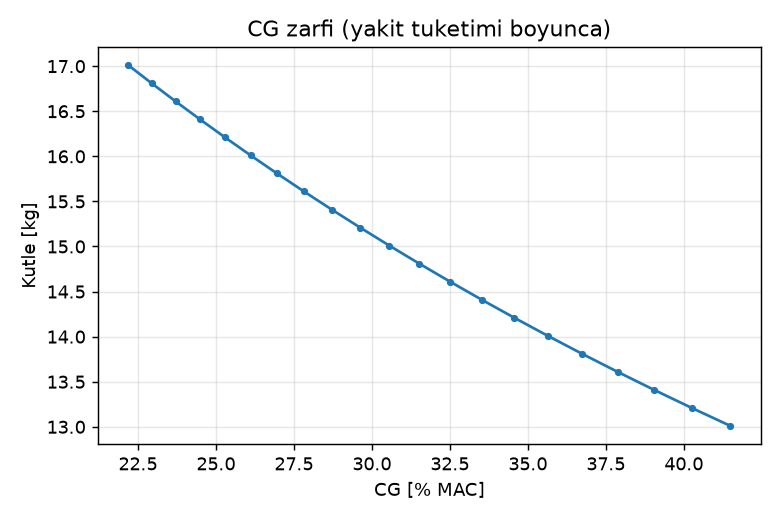
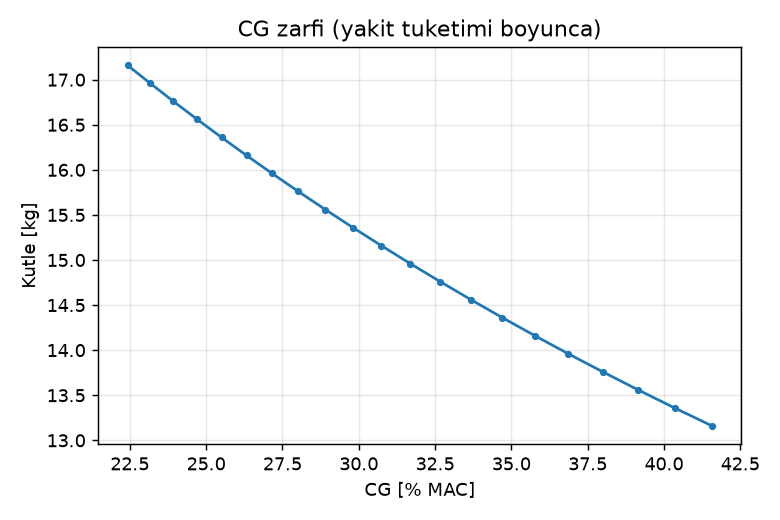
Alik basinc kazanimi analizi ve performans ciktilari

diff --git a/performance/inlet_analysis.py b/performance/inlet_analysis.py
@@ -1,0 +1,149 @@
+"""
+HIZ-750 - hava alik / S-kanal toplam basinc kazanimi (pressure recovery) ve itki etkisi.
+
+Calistir: python performance/inlet_analysis.py  ->  performance/out/alik_*.png, alik_ozet.txt
+
+Yontem (yari-ampirik, CFD yerine):
+  1. Govde sinir tabakasi (turbulans, 1/7 ust profil), dudak onundeki 7 derece rampa ile kalinlasma
+  2. Yari gomulu dudagin yuttugu sinir tabaka -> kutle-agirlikli toplam basinc kaybi
+  3. Ic kayiplar: dudak (MFR'ye bagli), surtunme (f L/Dh), S-bukum (K_s, ofset/uzunluk'a bagli),
+     difuzor (verim eta_d) - hepsi dudak ici dinamik basinc ile olceklenir
+  4. Itki etkisi: model turbojette sabit RPM'de kutle debisi ~ pt2, itki ~ pt2 kabulu
+     -> sizing.py'deki k_ram esdegeri
+Girdi: params.py (INLET, ENGINE), cad/out/cad_report.json (varsa kanal geometrisi).
+"""
+import json
+import math
+import os
+import sys
+
+import numpy as np
+import matplotlib
+matplotlib.use("Agg")
+import matplotlib.pyplot as plt
+
+ROOT = os.path.dirname(os.path.dirname(os.path.abspath(__file__)))
+sys.path.insert(0, ROOT)
+import params as P   # noqa: E402
+import sizing as SZ  # noqa: E402
+
+OUT = os.path.join(ROOT, "performance", "out")
+GAM = 1.4
+
+I = P.INLET
+A_CAP = I["width"] * I["height"]
+A_FACE = 125e-4                       # CAD: motor yuzundeki kanal kesiti [m2]
+L_DUCT = I["duct_length"]
+OFFSET = 0.088                         # CAD: dudak merkezi - motor ekseni dikey ofseti [m]
+R_FUS = P.FUSELAGE["d_max"] / 2
+BURY = R_FUS - (I["lip_z_center"] - I["height"] / 2)   # dudak alt kenarinin govde yuzeyinin altinda kalan kismi [m]
+RAMP_THICKENING = 1.5                  # 7 deg rampada sinir tabaka kalinlasmasi (ampirik, NACA gomulu alik verisi araligi 1.3-1.8)
+
+
+def pt_over_p(M):
+    return (1 + (GAM - 1) / 2 * M * M) ** (GAM / (GAM - 1))
+
+
+def boundary_layer(V, x, nu):
+    Re = V * x / nu
+    return 0.37 * x / Re ** 0.2
+
+
+def ingested_recovery(Minf, delta, h_cap, bury):
+    """Dudak kesitinin alt `bury`+... kismina giren sinir tabakanin kutle-agirlikli pt orani.
+    Dudak alt kenari rampa tabanina (duvar) yakin kabul edilir: kesitte y=0 duvar."""
+    y = np.linspace(1e-5, h_cap, 2000)
+    u = np.where(y < delta, (y / delta) ** (1 / 7), 1.0)
+    # statik basinc sabit, sicaklik Crocco-Busemann ile adyabatik duvar yaklasimi
+    T_ratio = 1 + (GAM - 1) / 2 * Minf ** 2 * (1 - u ** 2)    # T/T_inf
+    M_loc = Minf * u / np.sqrt(T_ratio)
+    rho_ratio = 1 / T_ratio
+    w = rho_ratio * u                                        # kutle akisi agirligi
+    pt_loc = pt_over_p(M_loc) / pt_over_p(Minf)
+    return float(np.trapezoid(w * pt_loc, y) / np.trapezoid(w, y)), float(np.trapezoid(w, y) / h_cap)
+
+
+def internal_losses(MFR, Minf):
+    """Ic kayiplari serbest akim dinamik basincina orani (Delta pt / q_inf) olarak."""
+    q_ratio_lip = MFR ** 2          # dudak ici q / q_inf (sikistirilamaz yaklasim)
+    K_lip = 0.02 if MFR <= 1.0 else 0.02 + 0.25 * (MFR - 1.0) ** 2   # MFR>1: dudak ayrilmasi (kalkis)
+    Dh = 4 * A_CAP / (2 * (I["width"] + I["height"]))
+    f = 0.020
+    AR = A_FACE / A_CAP
+    K_fric = f * L_DUCT / Dh * (1 + 1 / AR ** 2) / 2          # ortalama kesit hizi
+    K_s = 0.06 * (OFFSET / L_DUCT / 0.3) ** 2                  # S-bukum (Wellborn/ESDU tipi veri araligi 0.03-0.08 @ o/L 0.3)
+    eta_d = 0.90
+    K_diff = (1 - eta_d) * (1 - 1 / AR ** 2)
+    K_tot = K_lip + K_fric + K_s + K_diff
+    return K_tot * q_ratio_lip, dict(K_lip=K_lip, K_fric=K_fric, K_s=K_s, K_diff=K_diff, AR=AR, Dh=Dh)
+
+
+def analyse(V):
+    D = SZ.DESIGN
+    rho, a, mu = SZ.isa(D["alt_m"], D["dT"])
+    nu = mu / rho
+    M = V / a
+    delta0 = boundary_layer(V, I["x_lip"], nu)
+    delta = delta0 * RAMP_THICKENING
+    mdot = P.ENGINE["mdot_air"] * (1 + 0.6 * M * M)           # ram ile debi artisi (sizing ile tutarli)
+    MFR = mdot / (rho * V * A_CAP)
+    eta_bl, mass_frac = ingested_recovery(M, delta, I["height"], BURY)
+    dpt_q, k = internal_losses(MFR, M)
+    q = 0.5 * GAM * M * M          # q / p
+    eta_int = 1 - dpt_q * q / pt_over_p(M)
+    eta_r = eta_bl * eta_int
+    ram_ideal = pt_over_p(M)
+    ram_eff = eta_r * ram_ideal
+    k_eff = (ram_eff - 1) / (M * M) if M > 0.05 else float("nan")
+    return dict(V=V, M=M, delta0=delta0, delta=delta, MFR=MFR, eta_bl=eta_bl, eta_int=eta_int,
+                eta_r=eta_r, ram_ideal=ram_ideal, ram_eff=ram_eff, k_ram_eff=k_eff, **k)
+
+
+def main():
+    os.makedirs(OUT, exist_ok=True)
+    rows = [analyse(v / 3.6) for v in (150, 300, 450, 600, 750, 800)]
+    L = []
+    p = L.append
+    p(f"Capture {A_CAP*1e4:.1f} cm2, motor yuzu {A_FACE*1e4:.0f} cm2 (AR {A_FACE/A_CAP:.2f}), "
+      f"kanal {L_DUCT*1000:.0f} mm, ofset/uzunluk {OFFSET/L_DUCT:.3f}, dudak gomulme {BURY*1000:.0f} mm")
+    p(f"{'km/h':>5} {'M':>5} {'d_SL mm':>8} {'MFR':>5} {'eta_SL':>7} {'eta_ic':>7} {'eta_r':>7} "
+      f"{'ram ideal':>9} {'ram eff':>8} {'k_ram':>6}")
+    for r in rows:
+        p(f"{r['V']*3.6:5.0f} {r['M']:5.3f} {r['delta']*1000:8.1f} {r['MFR']:5.2f} {r['eta_bl']:7.4f} "
+          f"{r['eta_int']:7.4f} {r['eta_r']:7.4f} {r['ram_ideal']:9.4f} {r['ram_eff']:8.4f} {r['k_ram_eff']:6.3f}")
+    r750 = rows[4]
+    p(f"\nIc kayip katsayilari (dudak ici q'ya gore) @750: lip {r750['K_lip']:.3f}, surtunme {r750['K_fric']:.3f}, "
+      f"S-bukum {r750['K_s']:.3f}, difuzor {r750['K_diff']:.3f}")
+    # sizing'e etkisi
+    base = dict(SZ.DESIGN, engine="JetCat P400-PRO")
+    v_base = SZ.vmax(base) * 3.6
+    k_new = r750["k_ram_eff"]
+    cases = [("sizing tabani (k_ram 0.60, kayip %4)", base),
+             (f"alik analizi (k_ram {k_new:.2f}, egzoz kaybi %2)", dict(base, k_ram=k_new, inlet_loss=0.02)),
+             ("kotumser (+%2 pt kaybi)", dict(base, k_ram=(r750['ram_eff'] * 0.98 - 1) / r750['M'] ** 2, inlet_loss=0.02))]
+    p("\nVmax etkisi:")
+    for name, d in cases:
+        v = SZ.vmax(d) * 3.6
+        t750 = SZ.thrust(d, 750 / 3.6)
+        p(f"  {name:45s} Vmax {v:4.0f} km/h ({v-v_base:+.0f}), T@750 {t750:4.0f} N")
+    txt = "\n".join(L)
+    print(txt)
+    with open(os.path.join(OUT, "alik_ozet.txt"), "w", encoding="utf-8") as f:
+        f.write(txt + "\n")
+    with open(os.path.join(OUT, "alik_sonuclar.json"), "w", encoding="utf-8") as f:
+        json.dump(rows, f, indent=1)
+
+    Vs = np.linspace(80, 900, 60)
+    rr = [analyse(v / 3.6) for v in Vs]
+    fig, ax = plt.subplots(figsize=(7.5, 4.5))
+    ax.plot(Vs, [r["eta_r"] for r in rr], label="toplam $\\eta_r$")
+    ax.plot(Vs, [r["eta_bl"] for r in rr], "--", label="sinir tabaka yutma")
+    ax.plot(Vs, [r["eta_int"] for r in rr], ":", label="ic kayiplar")
+    ax.axvline(750, color="r", ls=":", lw=1)
+    ax.set_xlabel("Hiz [km/h]"); ax.set_ylabel("$p_{t2}/p_{t\\infty}$")
+    ax.set_title("Alik toplam basinc kazanimi (yari-ampirik)"); ax.grid(alpha=.3); ax.legend()
+    fig.tight_layout(); fig.savefig(os.path.join(OUT, "alik_kazanim.png"), dpi=130); plt.close(fig)
+
+
+if __name__ == "__main__":
+    main()

diff --git a/docs/05_sistemler_performans.md b/docs/05_sistemler_performans.md
@@ -64,10 +64,10 @@ Trade study: [trade_S_motor.png](../out/trade_S_motor.png).
 
 | Tank | İç hacim | x ağırlık merkezi |
 |---|---|---|
-| Gövde ana tankı (x 0,75–1,00 m) | 3,63 L | 0,868 m |
+| Gövde ana tankı (x 0,75–1,00 m) | 3,73 L (iter4: +0,10 L) | ~0,87 m |
 | Kanat kutusu orta tankı (gövde içinde) | 0,27 L | 1,082 m |
-| Kanat kökü entegre tanklar (2×, η 0,06–0,55) | 2 × 0,715 L | 1,151 m |
-| **Toplam** | **5,33 L** | **0,955 m** (z −0,029) |
+| Kanat kökü entegre tanklar (2×, η 0,06–0,55) | 2 × 0,715 L brüt; **kullanılabilir 2 × 0,57 L** | 1,151 m |
+| **Toplam** | **5,43 L brüt / ~5,14 L kullanılabilir** (≥ 5,0 L gereken) | **0,951 m** (CAD) |
 
 Notlar:
 - Yapı analizi kanat tankı için %5 bölme payı ve ara bölmeyle ~0,57–0,65 L/yarı veriyor. En kötü durumda toplam hacim ~5,2 L kalır ve yine yeterlidir.
@@ -89,6 +89,42 @@ Notlar:
 
 - **Yarı gömülü dudak notu:** Rampalı yarı gömülü alıklar sınır tabakanın bir kısmını yutar ve ram kazancını azaltabilir. Yer testinde motor yüzünde basınç taraması yapılmalı. `k_ram` duyarlılığı için bkz. `sizing.py`; k_ram 0,3'te Vmax ~−45 km/h.
 - **Egzoz:** Ø105 bypass boru. Yatay kuyruk iki yarı halinde, taşıyıcı yay (yoke) egzozun üstünden geçer.
+
+### 5.5.1 Toplam basınç kazanımı (iter4, yarı-ampirik)
+
+Script: [`performance/inlet_analysis.py`](../performance/inlet_analysis.py). CFD yapılmadı; aşağıdaki yöntemlerle tahmin edildi:
+- **Sınır tabaka:** Turbülanslı sınır tabaka 1/7 güç profiliyle modellendi. 7°'lik rampa sınır tabakayı ×1,5 kalınlaştırıyor; yarı gömülü dudak bu tabakanın 22 mm'lik kısmını yutuyor.
+- **İç kayıplar:** Dudak, sürtünme, S-büküm (Wellborn/ESDU veri aralığı) ve difüzör (η_d = 0,90) kayıpları dudak içindeki dinamik basınçla ölçeklendi.
+
+| Hız [km/h] | MFR | Sınır tabaka η | İç η | **Toplam η_r** | Eşdeğer k_ram |
+|---|---|---|---|---|---|
+| 150 (kalkış) | 2,52 | 0,999 | 0,948 | **0,947** | — |
+| 450 | 0,90 | 0,994 | 0,986 | 0,980 | 0,56 |
+| 750 | 0,61 | 0,985 | 0,985 | **0,970** | **0,67** |
+| 800 | 0,59 | 0,984 | 0,984 | 0,968 | 0,68 |
+
+750 km/h'teki iç kayıplar, dudak içindeki dinamik basınca göre:
+
+| Kayıp | Katsayı |
+|---|---|
+| Dudak | 0,020 |
+| Sürtünme | 0,056 |
+| S-büküm | 0,047 |
+| Difüzör | 0,077 |
+
+Toplam basınç kazanımı ~%97. Bu, `sizing.py`'deki k_ram = 0,60 + %4 kayıp varsayımından iyi:
+
+| Durum | Vmax | 750 km/h'te itki |
+|---|---|---|
+| Taban (`sizing.py`) | 878 km/h | 299 N |
+| Alık analizi | 897 km/h | 311 N |
+| Alık analizi + %2 ek kayıp | 887 km/h | 305 N |
+
+Taban değerler bilerek değiştirilmedi; kötümser kalıyorlar. Kalkışta (MFR > 2) dudakta akış ayrılması kazanımı 0,95'e düşürüyor. Bu sonuç yan emiş kapaklarının (~25 cm²) gerekliliğini doğruluyor.
+
+![alık kazanımı](../performance/out/alik_kazanim.png)
+
+> Doğrulama: Yer testinde motor yüzüne 6–8 noktalı pitot tarağı takılmalı. Ölçülen η_r değerleri `inlet_analysis.py` içindeki `RAMP_THICKENING` ve `K_s` ile kalibre edilir.
 
 ## 5.6 Elektrik, aviyonik ve uçuş kontrol yazılımı
 

diff --git a/performance/out/kutle_tablosu.md b/performance/out/kutle_tablosu.md
@@ -1,6 +1,7 @@
 | Kalem | Kutle [kg] | x [m] | z [m] | Moment [kg.m] |
 |---|---:|---:|---:|---:|
-| Govde kabugu (karbon prepreg) | 1.55 | 1.050 | 0.000 | 1.628 |
+| Govde kabugu (karbon prepreg) | 1.55 | 1.150 | 0.000 | 1.782 |
+| Burun balasti (tungsten) / ek RX akusu | 0.15 | 0.200 | 0.000 | 0.030 |
 | Kanat (kabuk 3/1 kat + kiris + kaburga) | 1.75 | 1.180 | -0.080 | 2.065 |
 | Kanat baglantisi: cerceveler + 4xM6 + blok | 0.15 | 1.080 | -0.060 | 0.162 |
 | Motor bolgesi isi kecesi + G10 plaka | 0.05 | 1.380 | -0.070 | 0.069 |
@@ -23,6 +24,6 @@
 | Kuyruk tamponu (egzoz konisi alti) | 0.04 | 1.900 | -0.060 | 0.076 |
 | Boya / dolgu / balans | 0.35 | 1.000 | 0.000 | 0.350 |
 | Yakit (5.0 L) | 4.00 | 0.955 | -0.029 | 3.820 |
-| **MTOW** | **17.01** | **1.151** | -0.015 | |
+| **MTOW** | **17.16** | **1.152** | -0.015 | |
 
-MAC = 0.312 m, MAC hucum kenari x = 1.082 m.  CG tam yakit %22.2 MAC, yakitsiz %41.5 MAC.
+MAC = 0.312 m, MAC hucum kenari x = 1.082 m.  CG tam yakit %22.4 MAC, yakitsiz %41.6 MAC.
